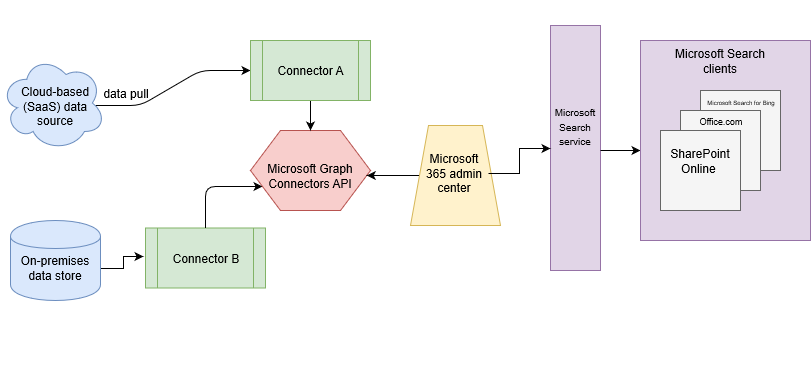
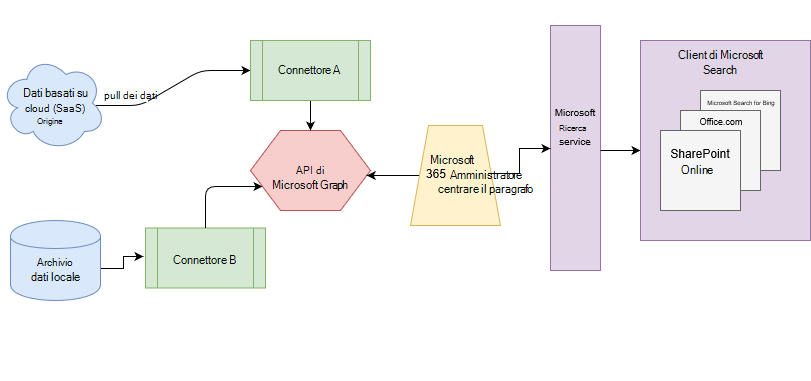
commit translated contents

diff --git a/MicrosoftSearch/configure-connector.md b/MicrosoftSearch/configure-connector.md
@@ -12,12 +12,12 @@ search.appverid:
 - MET150
 - MOE150
 description: Configurare il connettore Microsoft-built per Microsoft Search
-ms.openlocfilehash: 19a0c21911a9c5410e13a36f0bcc694af4a5c41a
-ms.sourcegitcommit: 988c37610e71f9784b486660400aecaa7bed40b0
+ms.openlocfilehash: ce2515b3eaa859a8fbb00d83c4727865ab55e174
+ms.sourcegitcommit: 6aea7102c94855e9f80711c0f3d7bf5833ce8fb5
 ms.translationtype: MT
 ms.contentlocale: it-IT
-ms.lasthandoff: 09/09/2020
-ms.locfileid: "47422857"
+ms.lasthandoff: 10/14/2020
+ms.locfileid: "48464477"
 ---
 <!-- markdownlint-disable no-trailing-punctuation -->
 
@@ -64,7 +64,17 @@ I campi dati impostati dall'origine dati di terze parti come proprietà di origi
 
 ### <a name="manage-the-search-schema"></a>Gestire lo schema di ricerca
 
-Gli amministratori possono impostare gli attributi dello schema di ricerca per controllare la funzionalità di ricerca di ogni proprietà di origine. Uno schema di ricerca consente di determinare quali risultati vengono visualizzati nella pagina dei risultati di ricerca e quali informazioni possono essere visualizzate e accessibili dagli utenti finali.
+#### <a name="content-property"></a>Content, proprietà
+
+È possibile selezionare la proprietà di origine è la proprietà di **contenuto** (indice full-text dell'elemento) selezionando qualsiasi proprietà stringa dall'elenco a discesa proprietà **contenuto** . In alternativa, è possibile mantenere la proprietà selezionata predefinita se ne è presente una.
+
+È particolarmente importante che la proprietà corretta sia selezionata dopo che questa proprietà è stata utilizzata per l'indicizzazione full-text del contenuto, la generazione di frammenti di pagina dei risultati di ricerca, il rilevamento della lingua, il supporto HTML/testo, la classificazione e la pertinenza e la formulazione delle query.
+
+Se si seleziona una proprietà per il **contenuto**, si avrà la possibilità di utilizzare la proprietà generata dal sistema **ResultSnippet** quando si [Crea il tipo di risultato](customize-results-layout.md). Questa proprietà funge da segnaposto per i frammenti dinamici generati dalla proprietà **Content** in fase di query. Se si utilizza questa proprietà nel tipo di risultati, i frammenti verranno generati nei risultati della ricerca.
+
+#### <a name="search-schema-attributes"></a>Attributi dello schema di ricerca
+
+È possibile impostare gli attributi dello schema di ricerca per controllare la funzionalità di ricerca di ogni proprietà di origine. Uno schema di ricerca consente di determinare quali risultati vengono visualizzati nella pagina dei risultati di ricerca e quali informazioni possono essere visualizzate e accessibili dagli utenti finali.
 
 Gli attributi dello schema di ricerca includono **ricercabili**, **Queryable**e **recuperabili**. Nella tabella seguente sono elencati tutti gli attributi supportati da Microsoft Graph e vengono illustrate le loro funzioni.
 
@@ -78,11 +88,14 @@ Per tutti i connettori, è necessario impostare manualmente i tipi personalizzat
 
 ![Lo schema per un connettore può essere personalizzato aggiungendo o rimuovendo le funzioni query, Search e retrieve.](media/manageschema.png)
 
-Queste restrizioni e suggerimenti si applicano alle impostazioni dello schema di ricerca:
+#### <a name="restrictions-and-recommendations-for-search-schema-settings"></a>Restrizioni e suggerimenti per le impostazioni dello schema di ricerca
 
-* Per i connettori che indicino tipi personalizzati, è consigliabile **non** contrassegnare il campo che contiene il contenuto principale **recuperabile**. Quando i risultati della ricerca eseguono il rendering con quell'attributo di ricerca, si verificano problemi significativi. Un esempio è il campo di contenuto di **testo** per un articolo della Knowledge base di [ServiceNow](https://www.servicenow.com) .
+* La proprietà **Content** è solo per le ricerche. Una volta selezionata nell'elenco a discesa, questa proprietà non può essere contrassegnata come **recuperabile** o **Queryable**. I problemi di prestazioni significativi si verificano quando i risultati della ricerca eseguono il rendering con la proprietà **Content** . Un esempio è il campo di contenuto di **testo** per un articolo della Knowledge base di [ServiceNow](https://www.servicenow.com) .
+
 * Solo le proprietà contrassegnate come rendering recuperabili nei risultati della ricerca possono essere utilizzate per creare i tipi di risultati moderni (MRTs).
+
 * Solo le proprietà della stringa possono essere contrassegnate come ricercabili.
+
 
 > [!Note]
 > Dopo aver creato una connessione, **non è possibile** modificare lo schema. A tale scopo, è necessario eliminare la connessione e crearne uno nuovo.
